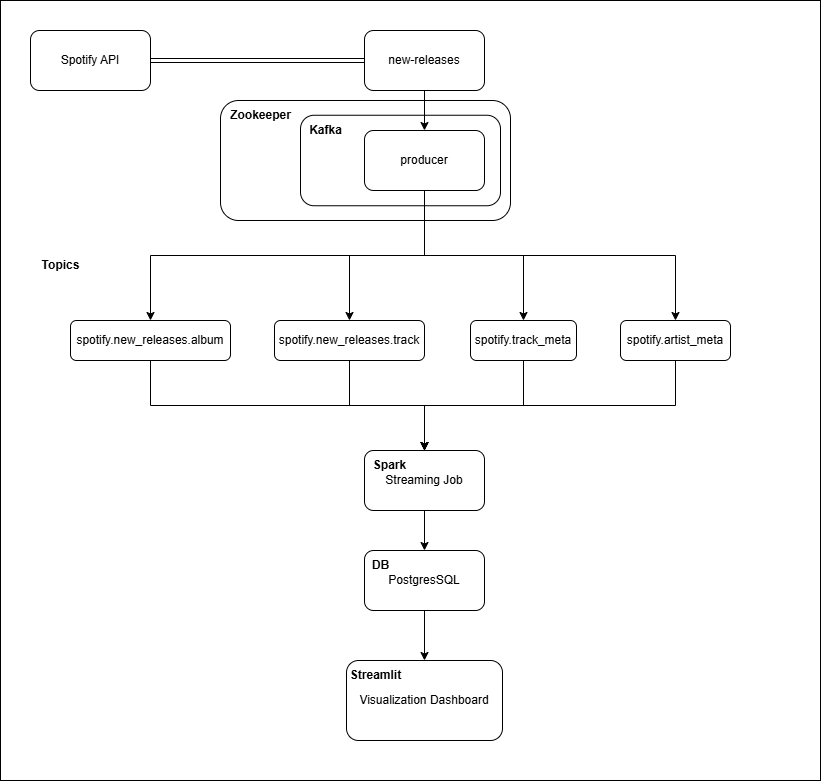
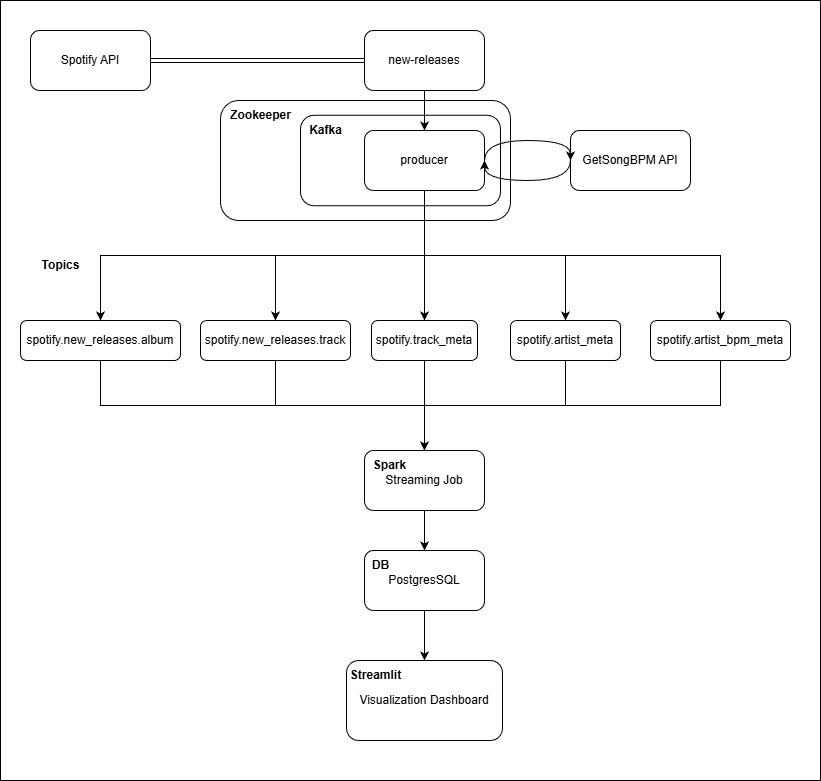
fixed docu

Changed region(s): [[0.0305, 0.3995, 0.9744, 0.4609], [0.6699, 0.1844, 0.8222, 0.2458], [0.5786, 0.1844, 0.609, 0.2151]]

diff --git a/src/mirza/README.md b/src/mirza/README.md
@@ -4,7 +4,7 @@ Navigate to the root folder and execute
   ```bash
   docker compose up -d
   ```
-If some of the services are not healthy for any reason, try starting up the services individually:
+If some of the services are not healthy for any reason, try starting up the services individually like this:
 
 BUILD ORDER:
   ```bash
@@ -25,6 +25,12 @@ docker compose up -d producer
 
 If nothing works try to clean previous installed volumes and execute from the root folder (be careful with these commands, as they clean all containers that are NOT running at the oment of execution):
 
+
+  ```bash
+docker compose down -v
+docker compose up -d
+  ```
+  OR
   ```bash
 docker compose down
 docker builder prune -a

diff --git a/src/mirza/DOCUMENTATION.md b/src/mirza/DOCUMENTATION.md
@@ -42,6 +42,8 @@ To enrich the dataset, we fetch further information for each album, artist, and 
 - **From artist endpoints:** `popularity`, `genres`  
 - **From track endpoints:** `track_name`, `popularity`, `duration_ms`, `explicit`, etc.
 
+Additionally we take the retrieved artist names and use them to search for song of said artists in the GetSongBPM API endpoint to retrieve older songs for each which can be used to analyze metrics of previous releases.
+
 ---
 
 ### Data Flow
